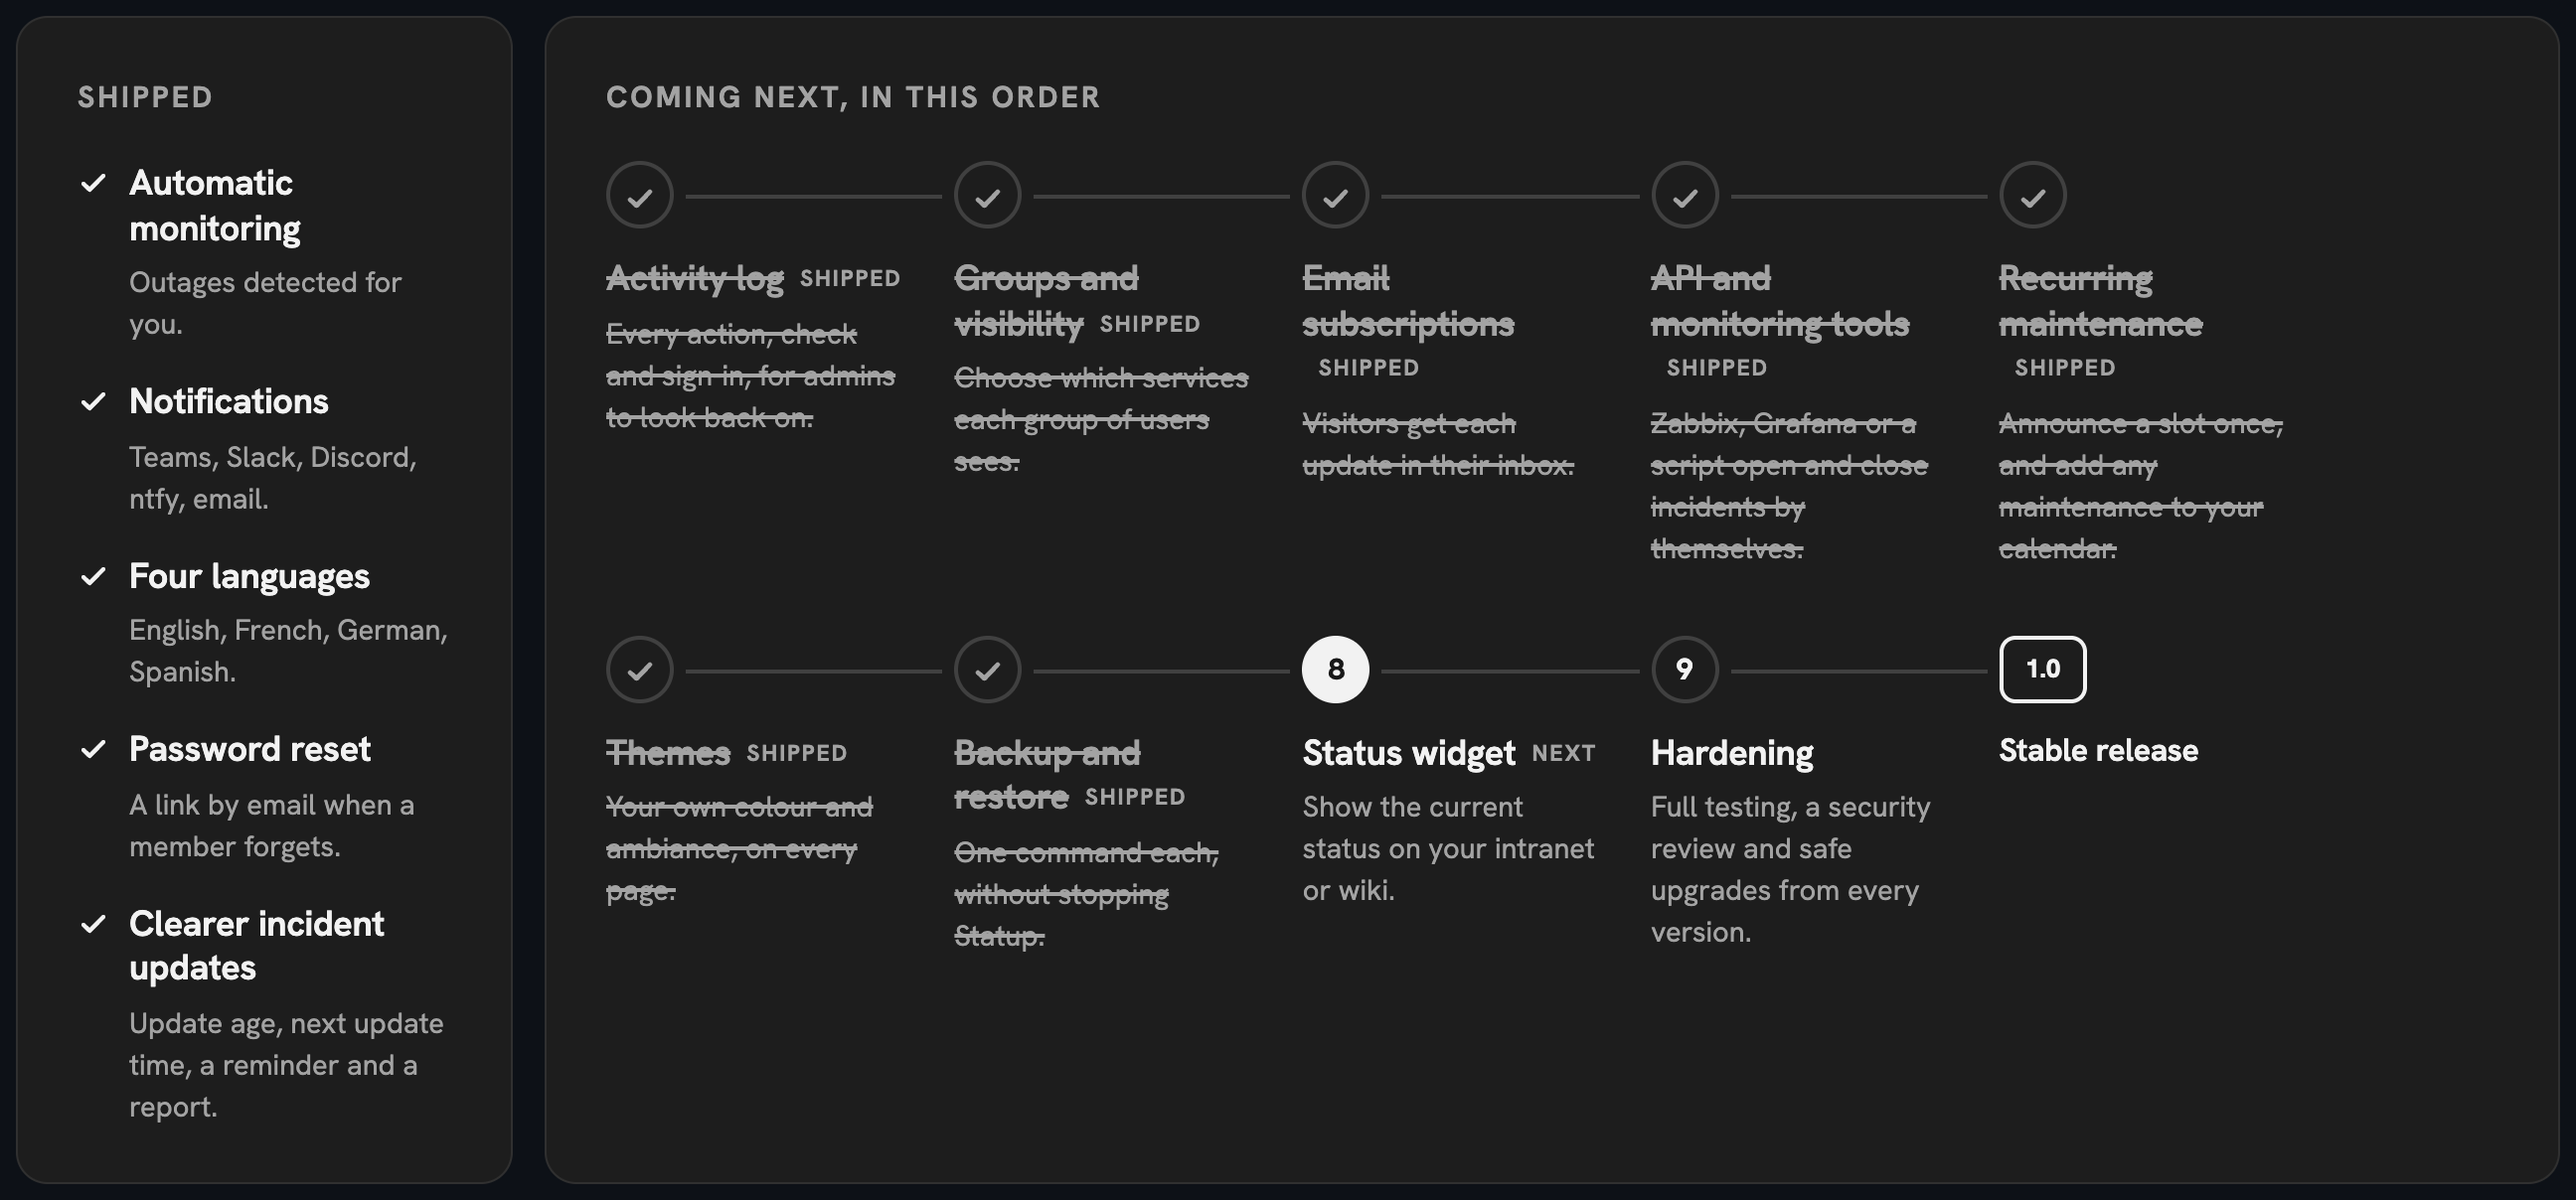
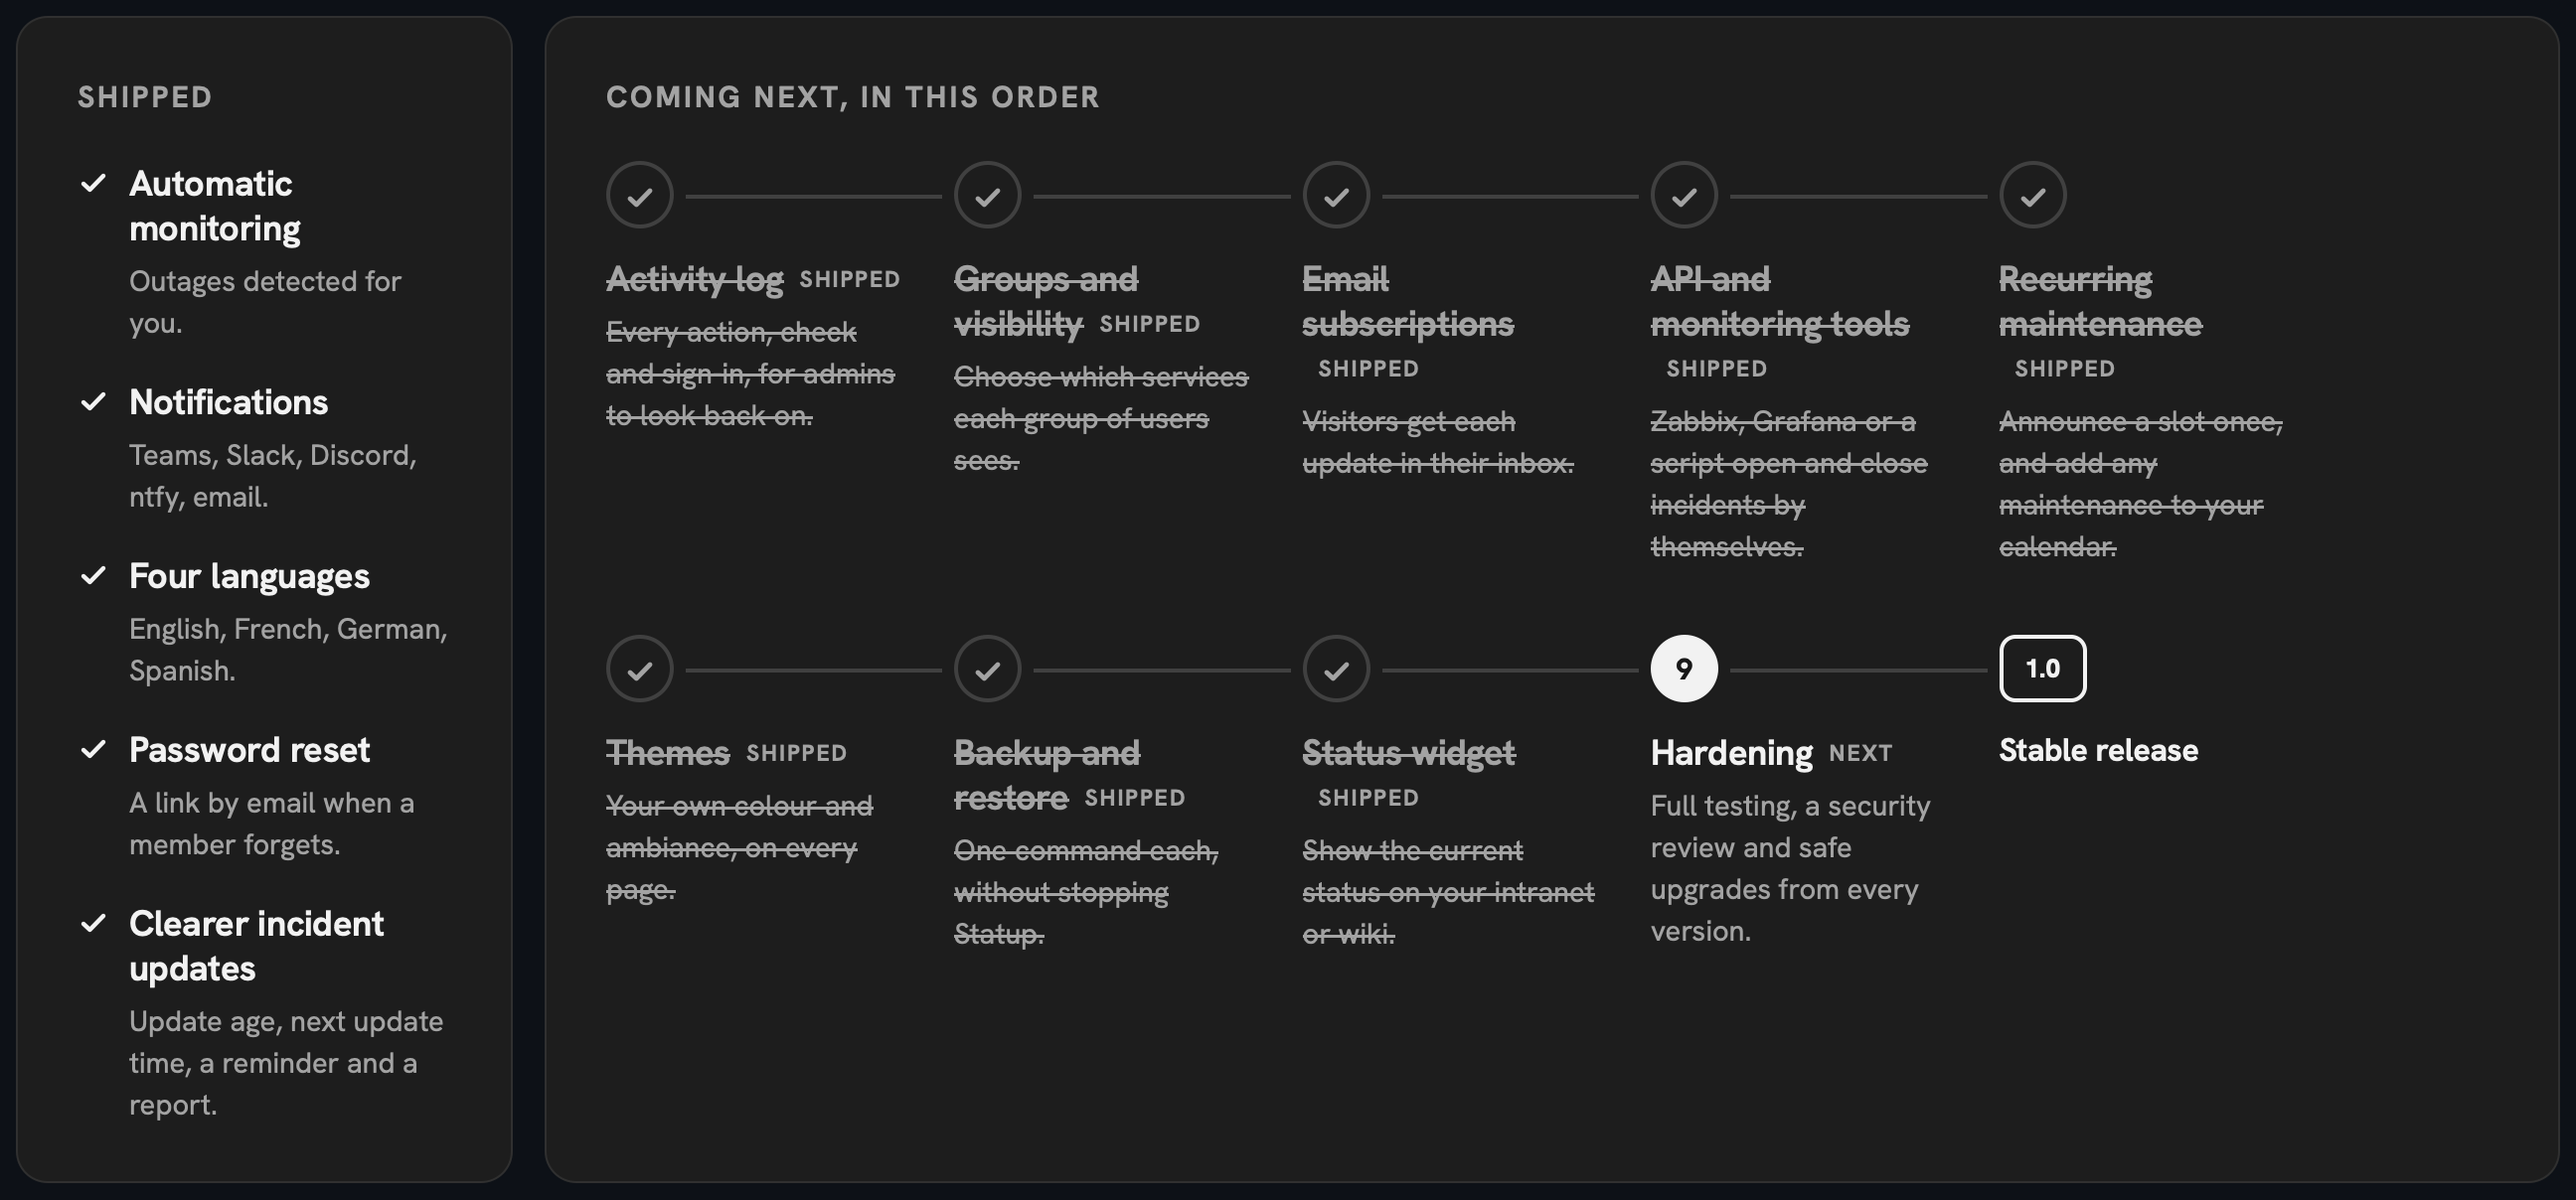
release 0.12.0

diff --git a/README.md b/README.md
@@ -94,7 +94,7 @@ Add them from the **Team** page: they open the same address. For HTTPS and a nam
 
 <picture>
   <source media="(prefers-color-scheme: dark)" srcset=".github/assets/roadmap-dark.png">
-  <img src=".github/assets/roadmap.png" alt="Roadmap: shipped are automatic monitoring, notifications, four languages, password reset and clearer incident updates; step 1, the activity log, shipped in 0.6.0; step 2, groups and visibility, shipped in 0.7.0; step 3, email subscriptions, shipped in 0.8.0; step 4, API and monitoring tools, shipped in 0.9.0; steps 5 and 6, recurring maintenance and themes, shipped in 0.10.0; step 7, backup and restore, shipped in 0.11.0; coming next, in order, steps 8 and 9 listed below, then the stable 1.0 release" width="1296">
+  <img src=".github/assets/roadmap.png" alt="Roadmap: shipped are automatic monitoring, notifications, four languages, password reset and clearer incident updates; step 1, the activity log, shipped in 0.6.0; step 2, groups and visibility, shipped in 0.7.0; step 3, email subscriptions, shipped in 0.8.0; step 4, API and monitoring tools, shipped in 0.9.0; steps 5 and 6, recurring maintenance and themes, shipped in 0.10.0; step 7, backup and restore, shipped in 0.11.0; step 8, the status widget, shipped in 0.12.0; coming next, step 9 listed below, then the stable 1.0 release" width="1296">
 </picture>
 
 Planned, in this order, without dates:
@@ -106,7 +106,7 @@ Planned, in this order, without dates:
 5. ~~**Recurring maintenance**: announce a slot once, and add any maintenance to your calendar.~~ Shipped in 0.10.0.
 6. ~~**Themes** and an accent colour.~~ Shipped in 0.10.0, with twelve colours and four ambiances.
 7. ~~**Backup and restore**: one command each, without stopping Statup.~~ Shipped in 0.11.0, with installers for Linux and Windows Server.
-8. **Status widget** for your intranet or wiki.
+8. ~~**Status widget** for your intranet or wiki.~~ Shipped in 0.12.0.
 9. **Hardening**: full testing, a security review and safe upgrades from every version, before 1.0.
 
 Ideas and requests are welcome in the [issues](https://github.com/karl-cta/statup/issues).

diff --git a/documentation/fr/install-windows.md b/documentation/fr/install-windows.md
@@ -178,13 +178,13 @@ Téléchargez `install.ps1`, `statup-<version>-windows-x86_64.zip` et `SHA256SUM
 Le script ne vérifie pas une archive qu'on lui donne. Comparez l'empreinte de l'archive à sa ligne dans `SHA256SUMS`, puis installez-la :
 
 ```powershell
-(Get-FileHash -Algorithm SHA256 statup-0.11.0-windows-x86_64.zip).Hash
-Select-String statup-0.11.0-windows-x86_64.zip SHA256SUMS
-powershell -ExecutionPolicy Bypass -File install.ps1 -Archive statup-0.11.0-windows-x86_64.zip
+(Get-FileHash -Algorithm SHA256 statup-0.12.0-windows-x86_64.zip).Hash
+Select-String statup-0.12.0-windows-x86_64.zip SHA256SUMS
+powershell -ExecutionPolicy Bypass -File install.ps1 -Archive statup-0.12.0-windows-x86_64.zip
 ```
 
 Pour servir les fichiers depuis votre propre serveur, copiez l'archive et `SHA256SUMS` sous `<url>/v<version>/`. Le script les télécharge de là et refuse une archive dont la somme de contrôle diffère.
 
 ```powershell
-powershell -ExecutionPolicy Bypass -File install.ps1 -Mirror https://files.example.com/statup -Version 0.11.0
+powershell -ExecutionPolicy Bypass -File install.ps1 -Mirror https://files.example.com/statup -Version 0.12.0
 ```

diff --git a/documentation/en/install-windows.md b/documentation/en/install-windows.md
@@ -178,13 +178,13 @@ Download `install.ps1`, `statup-<version>-windows-x86_64.zip` and `SHA256SUMS` f
 The script does not check an archive it is given. Compare the hash of the archive with its line in `SHA256SUMS`, then install it:
 
 ```powershell
-(Get-FileHash -Algorithm SHA256 statup-0.11.0-windows-x86_64.zip).Hash
-Select-String statup-0.11.0-windows-x86_64.zip SHA256SUMS
-powershell -ExecutionPolicy Bypass -File install.ps1 -Archive statup-0.11.0-windows-x86_64.zip
+(Get-FileHash -Algorithm SHA256 statup-0.12.0-windows-x86_64.zip).Hash
+Select-String statup-0.12.0-windows-x86_64.zip SHA256SUMS
+powershell -ExecutionPolicy Bypass -File install.ps1 -Archive statup-0.12.0-windows-x86_64.zip
 ```
 
 To serve the files from your own server, copy the archive and `SHA256SUMS` under `<url>/v<version>/`. The script downloads them from there and refuses an archive whose checksum differs.
 
 ```powershell
-powershell -ExecutionPolicy Bypass -File install.ps1 -Mirror https://files.example.com/statup -Version 0.11.0
+powershell -ExecutionPolicy Bypass -File install.ps1 -Mirror https://files.example.com/statup -Version 0.12.0
 ```

diff --git a/.github/CHANGELOG.md b/.github/CHANGELOG.md
@@ -2,11 +2,12 @@
 
 All notable changes to Statup are listed here. The project is pre-v1: until 1.0, a minor version may change the interface or the database, and the README asks you to back up before upgrading.
 
-## Unreleased
+## 0.12.0, 2026-11-02
 
 - An icon or a logo can weigh up to 1 MB, instead of 256 KB. Behind nginx, `client_max_body_size` lets it through, as the reverse proxy page now shows.
 - On the **Services** page, the state menu of a service is as wide as its longest state, no wider.
 - **Status widget**: a small box to paste into an intranet or a wiki, which repeats the banner of the page (everything works, the worst open incident, maintenance under way or announced) and refreshes itself every minute. **Settings › Widget** shows it in light, dark or following the device, gives the address and the HTML code to paste, and changes its private link, which shows what a member sees and never a service restricted to a group.
+- On Windows, `install.ps1 -Uninstall` waits until Windows has really removed the service, so an install right after it finds none.
 
 ## 0.11.0, 2026-10-30
 

diff --git a/documentation/fr/install-linux.md b/documentation/fr/install-linux.md
@@ -143,11 +143,11 @@ Le script ne vérifie pas une archive qu'on lui donne. Vérifiez-la vous-même, 
 
 ```bash
 sha256sum -c SHA256SUMS --ignore-missing
-sudo sh install.sh --archive statup-0.11.0-linux-x86_64.tar.gz
+sudo sh install.sh --archive statup-0.12.0-linux-x86_64.tar.gz
 ```
 
 Pour servir les fichiers depuis votre propre serveur, copiez l'archive et `SHA256SUMS` sous `<url>/v<version>/`, et `install.sh` là où vous rangez vos scripts. Le script les télécharge de là et refuse une archive dont la somme de contrôle diffère.
 
 ```bash
-sudo sh install.sh --mirror https://files.example.com/statup --version 0.11.0
+sudo sh install.sh --mirror https://files.example.com/statup --version 0.12.0
 ```

diff --git a/documentation/fr/upgrading.md b/documentation/fr/upgrading.md
@@ -23,7 +23,7 @@ Les administrateurs voient la version en service dans les Paramètres, et la plu
 `latest` suit chaque nouvelle version. Pour ne mettre à jour que quand vous le décidez, remplacez `latest` par un numéro de version sous `image:` dans `docker-compose.yml` :
 
 ```yaml
-image: ghcr.io/karl-cta/statup:0.11.0
+image: ghcr.io/karl-cta/statup:0.12.0
 ```
 
 Chaque version et ce qu'elle a changé figurent dans les [notes de version](https://github.com/karl-cta/statup/blob/main/.github/CHANGELOG.md). Statup n'a pas encore atteint sa 1.0 : attendez-vous à des changements d'une version à l'autre, et gardez une [copie des sauvegardes](backups.md#keep-a-copy-elsewhere) hors du serveur.

diff --git a/documentation/en/install-linux.md b/documentation/en/install-linux.md
@@ -143,11 +143,11 @@ The script does not check an archive it is given. Check it yourself, then instal
 
 ```bash
 sha256sum -c SHA256SUMS --ignore-missing
-sudo sh install.sh --archive statup-0.11.0-linux-x86_64.tar.gz
+sudo sh install.sh --archive statup-0.12.0-linux-x86_64.tar.gz
 ```
 
 To serve the files from your own server, copy the archive and `SHA256SUMS` under `<url>/v<version>/`, and `install.sh` wherever you keep scripts. The script downloads them from there and refuses an archive whose checksum differs.
 
 ```bash
-sudo sh install.sh --mirror https://files.example.com/statup --version 0.11.0
+sudo sh install.sh --mirror https://files.example.com/statup --version 0.12.0
 ```

diff --git a/documentation/en/upgrading.md b/documentation/en/upgrading.md
@@ -23,7 +23,7 @@ Administrators see the running version in Settings, and the newer one once it is
 `latest` follows each new version. To upgrade only when you choose, replace `latest` with a version number under `image:` in `docker-compose.yml`:
 
 ```yaml
-image: ghcr.io/karl-cta/statup:0.11.0
+image: ghcr.io/karl-cta/statup:0.12.0
 ```
 
 Every version and what it changed are in the [changelog](https://github.com/karl-cta/statup/blob/main/.github/CHANGELOG.md). Statup is before its 1.0: expect changes between versions, and keep a [copy of the backups](backups.md#keep-a-copy-elsewhere) away from the server.
